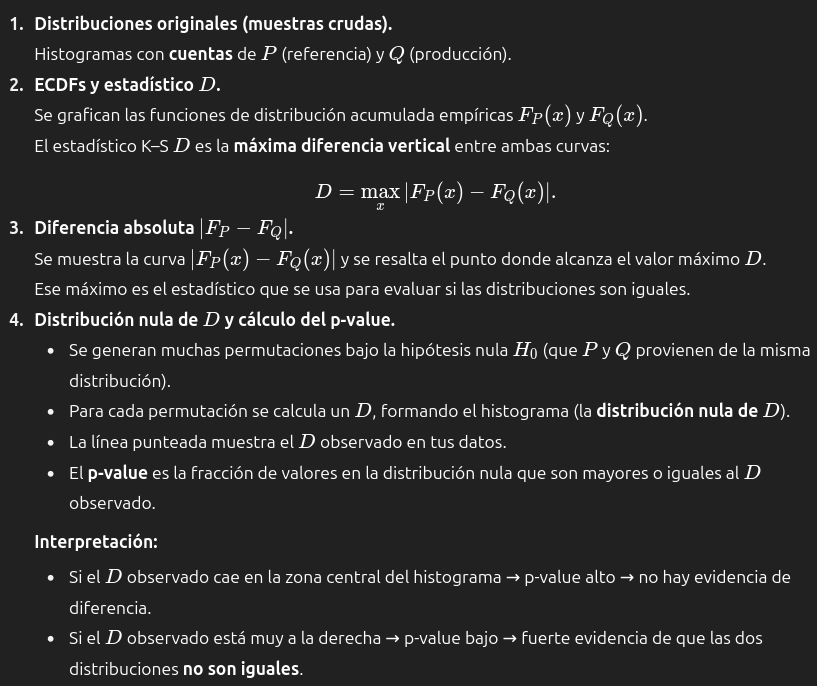
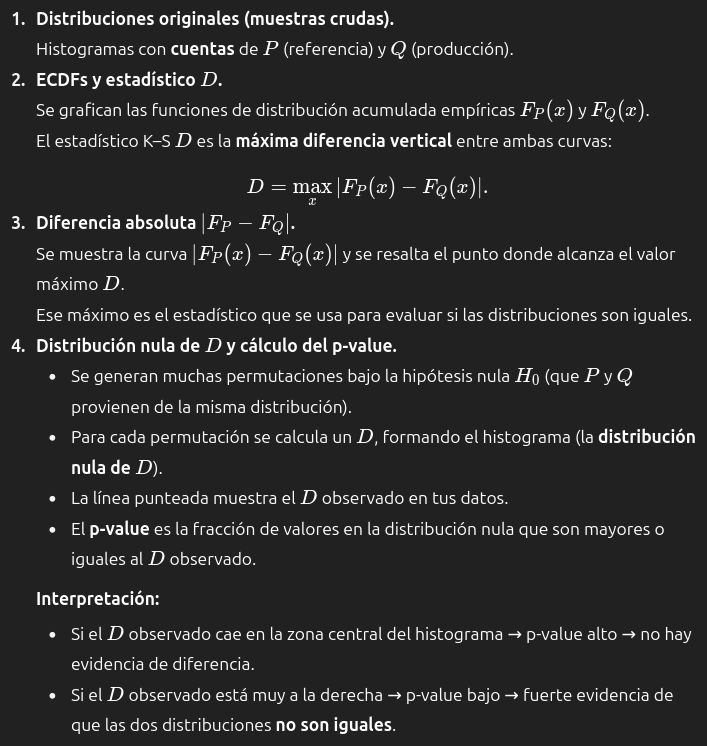
modify image

Changed region(s): [[0.0, 0.0, 0.9958, 1.0]]

diff --git a/index.html b/index.html
@@ -975,10 +975,10 @@
 </div>
 <div class="r-stack center quarto-layout-panel" data-fragment-index="2" data-layout-ncol="2">
 <div class="quarto-layout-row">
-<div class="quarto-layout-cell" style="flex-basis: 54.5%;justify-content: center;">
+<div class="quarto-layout-cell" style="flex-basis: 50.0%;justify-content: center;">
 <p><img data-src="imagenes/monitoring/kolmogorov_smirnov_test_estimation_01.png" class="fragment"></p>
 </div>
-<div class="quarto-layout-cell" style="flex-basis: 45.5%;justify-content: center;">
+<div class="quarto-layout-cell" style="flex-basis: 50.0%;justify-content: center;">
 <p><img data-src="imagenes/monitoring/kolmogorov_smirnov_test_estimation_02.png" class="fragment"></p>
 </div>
 </div>

diff --git a/pres.html b/pres.html
@@ -975,10 +975,10 @@
 </div>
 <div class="r-stack center quarto-layout-panel" data-fragment-index="2" data-layout-ncol="2">
 <div class="quarto-layout-row">
-<div class="quarto-layout-cell" style="flex-basis: 54.5%;justify-content: center;">
+<div class="quarto-layout-cell" style="flex-basis: 50.0%;justify-content: center;">
 <p><img data-src="imagenes/monitoring/kolmogorov_smirnov_test_estimation_01.png" class="fragment"></p>
 </div>
-<div class="quarto-layout-cell" style="flex-basis: 45.5%;justify-content: center;">
+<div class="quarto-layout-cell" style="flex-basis: 50.0%;justify-content: center;">
 <p><img data-src="imagenes/monitoring/kolmogorov_smirnov_test_estimation_02.png" class="fragment"></p>
 </div>
 </div>
